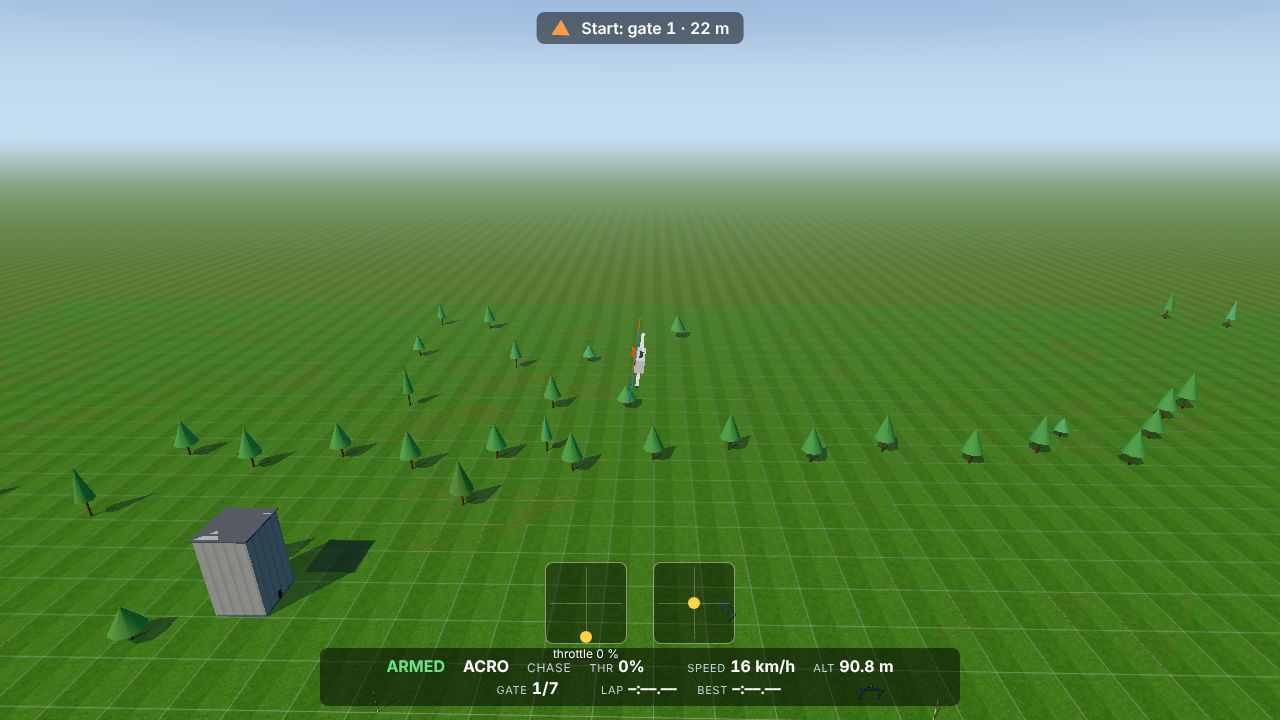
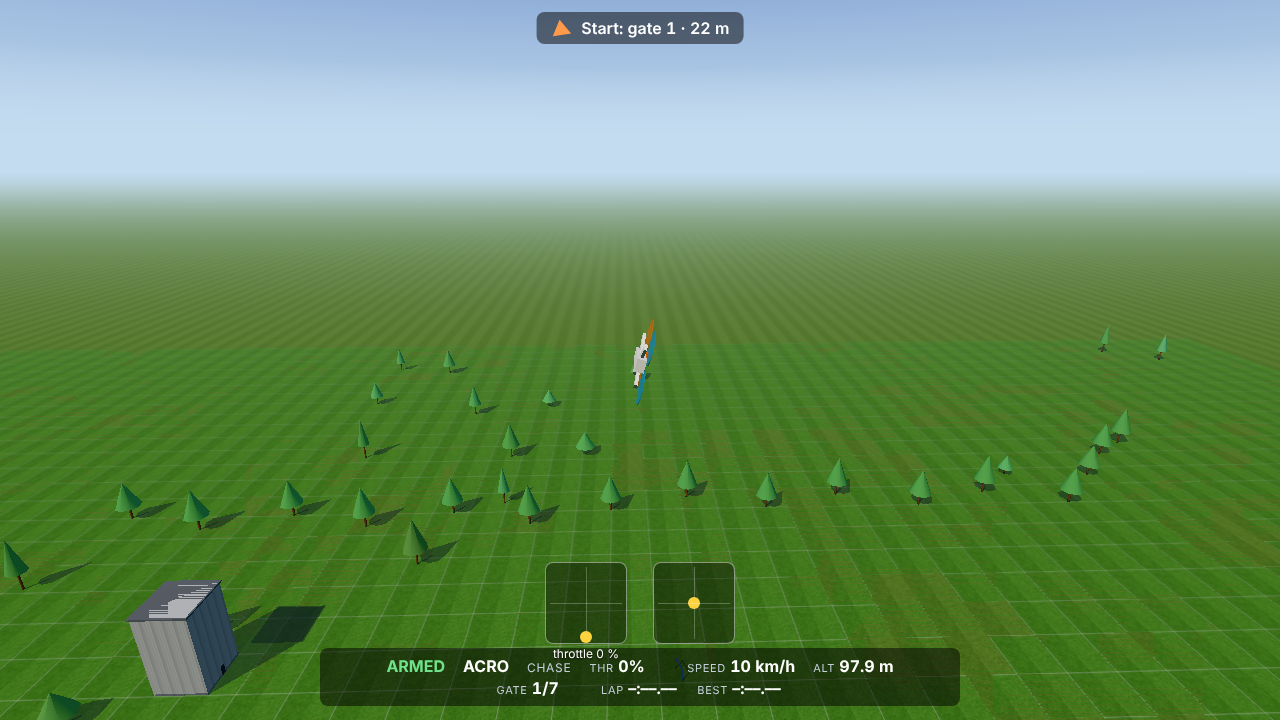
M12: rotor drag in the rotor plane, scaled by prop speed

diff --git a/src/params.js b/src/params.js
@@ -13,10 +13,10 @@ export function defaultQuad() {
     motorTau: 0.033,            // s, first-order lag on motor speed, cited (docs/feel.md F8)
     yawTorquePerThrust: 0.0122, // m, derived from [7]
     dragLinear: 0.3,            // N per m/s, cited [7] (in-plane)
-    dragBody: [0.3, 0.15, 0.3], // N per m/s on body x, y (thrust axis), z: k_vx, k_vz, k_vy of [7]; Faessler 2018 gives 0.26 to 0.33 in-plane (docs/inertia-review.md I3)
+    dragBody: [0.3, 0, 0.3],    // N per m/s at hover prop speed, body x, y (thrust axis), z: rotor drag acts in the rotor plane only (Martin 2014; Faessler 2018 sets dz = 0); in-plane 0.3 = k_vx, k_vy of [7]; scales with prop speed (docs/inertia-review.md I3, I4)
     dragQuadratic: 0.006,       // N per (m/s)^2, uncited
     thrustExponent: 1.35,       // static thrust = max * command^1.35: middle of two 2207 6S bench tables, 1.24 and 1.45 (docs/feel.md, note 2)
-    pitchSpeed: 60,             // m/s at full throttle, tuned for ~150 km/h level top speed [8]
+    pitchSpeed: 54,             // m/s at full throttle, tuned for ~150 km/h level top speed [8] (65 before M12: drag model changed)
     crashSpeed: 6,              // m/s impact speed that counts as a crash (assumption)
     groundHeight: 0.05,         // m, height of the centre of mass when sitting on the ground
   };

diff --git a/src/physics.js b/src/physics.js
@@ -87,7 +87,14 @@ export function stepPhysics(s, cmd, dt, p, world) {
   // Drag. Linear part in the BODY frame (rotor drag, Faessler 2018 Eq. 2: -R D R^T v): per body axis [x, y = thrust axis, z],
   // so it turns with the quad (docs/inertia-review.md I3). Quadratic part stays the same on every axis (UNSOURCED).
   const speed = Math.hypot(rvx, rvy, rvz);
-  const [kx, ky, kz] = p.dragBody || [p.dragLinear, p.dragLinear, p.dragLinear];
+  // Rotor drag grows with prop speed: per rotor -lambda * omega_i * (in-plane airspeed) (Martin 2014 Eq. 1; NeuroBEM: it "depends
+  // on the propeller speed"). The cited coefficients hold at hover prop speed; stopped props give none (docs/inertia-review.md I4).
+  let nSum = 0;
+  for (let i = 0; i < 4; i++) nSum += s.motors[i] ** (p.thrustExponent / 2);
+  const nHover = Math.sqrt((p.mass * GRAVITY) / (4 * p.maxThrustPerMotor));
+  const rs = p.rotorDragScales === false ? 1 : nSum / (4 * nHover);
+  const kb = p.dragBody || [p.dragLinear, p.dragLinear, p.dragLinear];
+  const kx = kb[0] * rs, ky = kb[1] * rs, kz = kb[2] * rs;
   const qc = [-s.quat[0], -s.quat[1], -s.quat[2], s.quat[3]];
   rotate(qc, [rvx, rvy, rvz], _vb);
   _vb[0] *= kx; _vb[1] *= ky; _vb[2] *= kz;

diff --git a/docs/inertia-review.md b/docs/inertia-review.md
@@ -21,16 +21,20 @@ Reproduced with `node test/inertia-repro.mjs` (same physics and flight controlle
 ## Found and fixed
 
 - **I2. No rotational damping from the props (fixed).** Each prop's thrust falls with the air flowing through it (`motorThrust`, docs/physics.md). The old model used the *body's* axial airspeed for all four props, so a roll or pitch rotation did not change any prop's airflow. Now each prop gets its own: body axial airspeed + (ω × r)·up. A motor swinging up loses thrust, one swinging down gains: a damping torque against the rotation, from the existing thrust law, no new number. Size: time constant I / (4 d² dT/dv) ≈ 1.3 s at hover, ≈ 3 s at idle, ≈ 0.5 s at full throttle (dT/dv = Tmax·n / v_pitch). Small against the rate loop (120 1/s), so the stick feel is unchanged (`node test/feel.mjs`: same numbers). Its size rests on `pitchSpeed`, which is tuned (to the 150 km/h top speed). Yaw is not damped by this (the props do not move axially in yaw). Test: `test/unit/inertia.test.mjs` I2.
-- **I3. Linear drag was the same on every axis, in the world frame (fixed).** Rotor drag acts in the body frame: Faessler, Franchi, Scaramuzza 2018 [F], Eq. 2: `v̇ = −g z_W + c z_B − R D Rᵀ v`, D = diag(dx, dy, dz), "rotor drag, which is a linear effect in the quadrotor's velocity". Identified in-plane on a 610 g quad: dx 0.43 to 0.54 s⁻¹, dy 0.24 to 0.39 s⁻¹ (Sec. VII.C, Fig. 3), i.e. 0.15 to 0.33 N per m/s; dz set to 0 there ("a non zero drag coefficient in the z-direction does not improve the tracking"). The sim now uses the already-cited Kaufmann 2022 Table II values [7]: 0.3 N per m/s in the rotor plane, 0.15 along the thrust axis, applied as `R D Rᵀ v`. Test: I3. Side effect: level top speed rose to 162 km/h (motion at 75° tilt is half along the thrust axis), so `pitchSpeed` was retuned 65 → 60 m/s (150 km/h again).
+- **I3. Linear drag was the same on every axis, in the world frame (fixed).** Rotor drag acts in the body frame: Faessler, Franchi, Scaramuzza 2018 [F], Eq. 2: `v̇ = −g z_W + c z_B − R D Rᵀ v`, D = diag(dx, dy, dz), "rotor drag, which is a linear effect in the quadrotor's velocity". Identified in-plane on a 610 g quad: dx 0.43 to 0.54 s⁻¹, dy 0.24 to 0.39 s⁻¹ (Sec. VII.C, Fig. 3), i.e. 0.15 to 0.33 N per m/s; dz set to 0 ("a non zero drag coefficient in the z-direction does not improve the tracking"). Martin 2014 [M] Eq. 1: the velocity terms "arise from the velocity imbalance of the blade on a complete turn" and lie in the rotor plane. So the sim now applies 0.3 N per m/s (Kaufmann Table II k_vx, k_vy [7]) in the rotor plane, in the body frame, and **none along the thrust axis**: the axial effect is already in the thrust law (thrust falls with axial inflow), and Kaufmann's k_vz = 0.15 stands in for that in a model without inflow, so using both would count it twice. Test: I3.
+- **I4. Rotor drag did not depend on the props spinning (fixed).** Martin 2014 [M] Eq. 1: per rotor the drag is λ₁ · ω_i · (in-plane airspeed), linear in rotor speed; NeuroBEM [N] Sec. III-C: induced drag "depends on the propeller speed and body-relative air velocity", "the dominant source of drag for quadrotors". The sim now scales the in-plane coefficient by mean prop speed / hover prop speed (the cited 0.3 holds at hover: an assumption, the papers identified it in flight near hover thrust). Effects: none with the props stopped (disarmed), 0.17 at idle, 0.9 at full throttle. Measured (`node test/feel.mjs`): coasting from 23 km/h unchanged (1.5 s to half speed), falling with motors off 60 → 120 km/h (now only the UNSOURCED quadratic drag), `pitchSpeed` retuned 65 → 54 m/s so the angle-mode top speed is 151 km/h again. Test: I4.
+- With I3 + I4 a flat and an edge-on disarmed fall are again identical: the leftover quadratic drag is still the same on every axis (I5).
 
 ## Found, still open (next legs)
 
-- **I4. Disarmed / stopped-prop drag.** Rotor drag only exists while the props spin; [F] also assumes it does not depend on thrust ("not true in reality"). With motors off what is left is the parasitic drag of frame, stopped props and battery, which should depend on orientation (flat is draggier than edge-on). After I3 the sim has the opposite: a flat fall is now *faster* (18.3 m/s after 3 s) than edge-on (14.4) because the axial rotor-drag coefficient is the smaller one. Fix: make rotor drag scale with prop speed and give the quadratic drag per-axis areas, sourced.
-- **I5. Disarmed spin never stops.** I2 only damps while the props spin. With motors off, the spin needs air drag on the arms and stopped props (quadratic in ω). Source a flat-plate drag coefficient and the arm / prop areas.
+- **I5. Body (parasitic) drag the same on every axis, and a disarmed spin that never stops.** With the props stopped what is left is the frame, stopped props and battery. Flat should be draggier than edge-on, and the arms and stopped blades should slow a tumble (flat plate Cd 1.28, NASA Glenn [G]). Needs sourced areas of a 5-inch frame, battery and stopped props (top vs side). Not found yet; I2 does not help here because it needs spinning props.
 - **I6. Prop spin-up reaction torque on yaw** and **prop gyroscopic precession**: both missing. Check their size at 5-inch scale (prop inertia) with sources.
 - **I7. Translational lift / in-plane airflow raising thrust**, and the vortex ring loss in descent (review R7): still missing.
 
 ## Sources
 
 - [F] Faessler, Franchi, Scaramuzza, "Differential Flatness of Quadrotor Dynamics Subject to Rotor Drag for Accurate Tracking of High-Speed Trajectories", IEEE RA-L 2018: https://arxiv.org/pdf/1712.02402 (Sec. III Eq. 2 and 4, Sec. VII.A mass 610 g, Sec. VII.C and Fig. 3 coefficients).
+- [M] P. Martin, "Accelerometers on Quadrotors: What do they Really Measure?", AerospaceLab 8, 2014, Eq. 1: https://aerospacelab.onera.fr/aerospacelab/sites/default/files/2024-01/AL08-06.pdf
+- [N] Bauersfeld, Kaufmann, Foehn, Sun, Scaramuzza, "NeuroBEM: Hybrid Aerodynamic Quadrotor Model", RSS 2021, Sec. III-C: https://arxiv.org/pdf/2106.08015
+- [G] NASA Glenn, "Shape Effects on Drag": flat plate Cd = 1.28: https://www1.grc.nasa.gov/beginners-guide-to-aeronautics/shape-effects-on-drag/
 - [7] Kaufmann, Bauersfeld, Scaramuzza 2022, Table II (docs/physics.md): k_vx, k_vy 0.3, k_vz 0.15 N per m/s. (Could not be reread this leg: fetch not permitted; values as cited by earlier legs.)

diff --git a/PROGRESS.md b/PROGRESS.md
@@ -239,3 +239,4 @@ Live link: https://mickethegeek.github.io/fpv-sim/ (not checkable from the cloud
 - 2026-11-18 15:01 Zurich · M12 started: test/inertia-repro.mjs reproduces the friend's manoeuvres on the real sim (proof/M12/repro-before.txt): a disarmed spin never slows (600 deg/s for ever), drag is the same flat or edge-on, yaw at zero throttle drives motors to 80 % (airmode shift); Euler equation and quaternion update checked by hand: correct · next: sources for rotor drag, rotational damping, idle authority
 - 2026-11-18 15:09 Zurich · M12: two fixes: each prop now sees its own airflow (roll/pitch rotations are damped by the props, ~1.3 s at hover, derived from the thrust law), rotor drag in the body frame (0.3 in-plane, 0.15 axial, Faessler 2018 + [7]); pitchSpeed 65 → 60 to keep 150 km/h; docs/inertia-review.md (I1 to I7); test/unit/inertia.test.mjs fails on the old model; 90 unit tests, feel numbers unchanged · next: I4/I5 (stopped-prop drag, disarmed spin), then browser checks
 - 2026-11-18 15:11 Zurich · M12: browser block M12 (4 checks) passes in Chrome: page-served physics damps a roll (67 % left after 0.5 s), rotor drag turns with the quad (0.30 / 0.15), friend's manoeuvre flown (throttle 0, full roll while falling: 671 deg/s, airmode as in Betaflight; stops when centred); proof/M12/m12-*.png looked at; NeuroBEM (rotor drag 'depends on the propeller speed', dominant drag) and NASA flat plate Cd 1.28 noted for I4/I5 · next: I4 rotor drag with prop speed + per-axis body drag, I5 disarmed spin drag
+- 2026-11-18 15:14 Zurich · M12: I3 refined + I4 fixed: rotor drag in the rotor plane only (axial already in the thrust law) and scaled by prop speed (Martin 2014 Eq. 1, NeuroBEM): none with props stopped, 0.3 at hover, 0.9 at full; pitchSpeed 65 → 54 (top speed 151 km/h); motors-off fall now 120 km/h (UNSOURCED quadratic drag only); 91 unit tests, M12 browser block passes · next: I5 per-axis body drag + tumble drag (needs sourced areas), I6 prop torque/gyro, full browser run, REPORT, cards

diff --git a/REPORT.md b/REPORT.md
@@ -51,7 +51,7 @@ PLAN rule: every number from real-life data. These are the ones still without a 
 | Rate-loop response time | 45 ms to 90 % | Only third-party tuner thresholds found, no primary measurement |
 | Angle-mode lean time | 200 ms | A judgement; no published figure |
 | Yaw authority | 166 ms to 90 % | Follows from the motor model; not checked against a real quad |
-| Falling speed with motors off | 60 km/h | No figure found |
+| Falling speed with motors off | 120 km/h (M12; was 60) | No figure found; set by the UNSOURCED quadratic drag alone now that rotor drag needs spinning props |
 | Quadratic body drag | 0.006 N per (m/s)² | Placeholder |
 | Crash speed | 6 m/s | A choice |
 | Gamepad stick deadzone | 5 % | No figure for PlayStation sticks; slider in the panel |
@@ -62,7 +62,7 @@ PLAN rule: every number from real-life data. These are the ones still without a 
 | Angle-mode gain (M10f review) | 10 deg/s per degree | Betaflight 4.5 uses 5 plus angle feedforward and a filter; the sim has no feedforward, so 10 is tuned to a similar lean (docs/review.md R1) |
 | Thrust when sinking (M10f review) | up to +25 % over static | The model gives extra thrust in a descent, capped at +25 % with no source; real quads lose up to 20 % in a fast vertical descent (vortex ring state, not modelled; docs/review.md R7) |
 | Mass (M10f review) | 680 g | 10 g above the cited 625 to 670 g (docs/review.md R5) |
-| Prop pitch speed | 65 m/s | Tuned so level top speed lands on the cited 150 km/h |
+| Prop pitch speed | 54 m/s (M12; was 65) | Tuned so level top speed lands on the cited 150 km/h |
 | Yaw-jump height | 1.2 m (half yaw) / 4.2 m (full yaw) in 2 s | Real yaw jump is cited, its size is not |
 
 Independent physics review (M10f, 2026-11-17): every parameter and card claim rechecked against primary sources; findings and fixes in `docs/review.md`.

diff --git a/docs/physics.md b/docs/physics.md
@@ -33,7 +33,7 @@ Not copied from Betaflight: the PID loop itself. Betaflight's default gains (rol
 |---|---|---|---|
 | Inertia roll / pitch / yaw | 2.5e-3 / 2.1e-3 / 4.3e-3 kg m² | cited | Kaufmann, Bauersfeld, Scaramuzza 2022, Table II, identified from a real racing quad of 0.768 kg [7] |
 | Yaw torque per newton of thrust | 0.0122 m | derived | c_d / c_l = 1.909e-8 / 1.563e-6 from the same Table II [7] |
-| Linear (rotor) drag | 0.3 N per m/s in the rotor plane, 0.15 along the thrust axis, in the body frame | cited | k_vx, k_vy, k_vz in Table II [7]; body-frame form `R D Rᵀ v` from Faessler 2018 Eq. 2 (docs/inertia-review.md I3) |
+| Linear (rotor) drag | 0.3 N per m/s at hover prop speed, in the rotor plane only, body frame, scaled by prop speed (none with props stopped) | cited | in-plane k_vx, k_vy of Table II [7]; body-frame form from Faessler 2018 Eq. 2 (dz = 0 there); per rotor ∝ prop speed × in-plane airspeed, Martin 2014 Eq. 1 (docs/inertia-review.md I3, I4) |
 | Level top speed target | about 150 km/h | cited | "A typical 6S 5-inch freestyle FPV drone can reach about 150 km/h" [8] |
 | Mass with battery | 0.68 kg | cited | 625 to 670 g with a 6S 1300 mAh pack (`docs/feel.md` F7) |
 | Thrust-to-weight | 9 | cited (range) | 7.5 measured in flight trim on an 870 g race quad, 10 to 11 from bench thrust (`docs/feel.md` F4 to F6); 9 is the middle. Gives 15 N static thrust per motor. |

diff --git a/docs/review.md b/docs/review.md
@@ -36,7 +36,7 @@ The model's sourced numbers are right. Three card sentences were wrong for the s
 - Card geometry: cos 30° = 87 %, cos 60° = 50 %, sin 30° = half sideways; 0.5^1.35 = 0.39 ("well under half"); one flip at 670 deg/s = 0.54 s.
 
 ## Still UNSOURCED after this review (also in REPORT.md)
-Angle-mode gain 10 (R1, tuned); descent thrust cap +25 % (R7); quadratic body drag 0.006 and the 60 km/h free fall it gives; `pitchSpeed` 65 m/s (tuned to the cited 150 km/h); yaw-jump height; crash speed 6 m/s; lesson limits (landing 1.5 m/s, slow 8 m/s, disarm 1.0 s, heading 20°); gamepad deadzone; look choices.
+Angle-mode gain 10 (R1, tuned); descent thrust cap +25 % (R7); quadratic body drag 0.006 and the 120 km/h free fall it gives (60 before M12); `pitchSpeed` 54 m/s (65 before M12) (tuned to the cited 150 km/h); yaw-jump height; crash speed 6 m/s; lesson limits (landing 1.5 m/s, slow 8 m/s, disarm 1.0 s, heading 20°); gamepad deadzone; look choices.
 
 ## Sources read this leg
 - Betaflight 4.5.0 / 4.4.0 source: `src/main/fc/controlrate_profile.c`, `fc/rc.c`, `flight/pid.c`, `flight/pid.h`, `flight/pid_init.c`, `flight/failsafe.c`, `flight/mixer_init.c`, `pg/motor.c`, `drivers/motor.h` (raw.githubusercontent.com/betaflight/betaflight/4.5.0/...)

diff --git a/docs/feel.md b/docs/feel.md
@@ -56,7 +56,7 @@ Rule from PLAN.md (Mike, 2026-11-16): every number comes from real-life data. Ro
 | Throttle chop from hover: sink rate and drop after 1 s (free fall: 9.8 m/s, 4.9 m) | 6.0 m/s, 3.2 m |
 | Coasting from 23 km/h after centring the sticks (angle mode): half speed after, below 1 m/s after, distance | 1.6 s, 4.1 s, 12 m |
 | Top speed in angle mode (60 deg tilt limit, full throttle) | 145 km/h |
-| Falling with motors off: terminal speed | 60 km/h |
+| Falling with motors off: terminal speed | 120 km/h (was 60 before M12: rotor drag now vanishes with the props stopped, docs/inertia-review.md I4) |
 
 Trainer preset (throttle limit 70 %): hover 21.7 %, punch 4.0 g, climb after 1 s 80 km/h, 111 km/h top speed in angle mode. Rotation numbers are the same as above.
 
